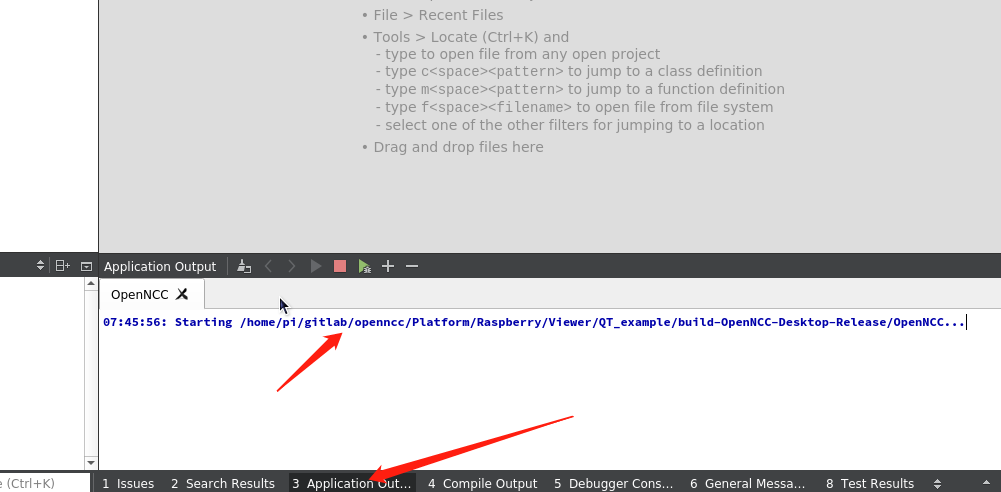
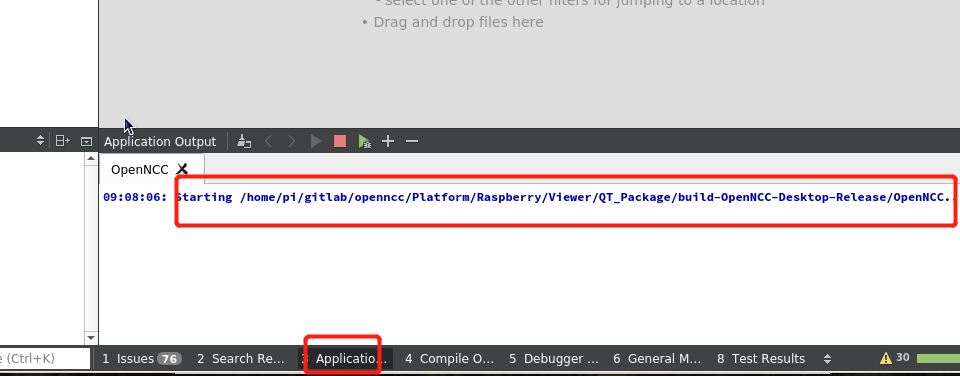
modify pi README

diff --git a/Platform/Raspberry/ReadMe.md b/Platform/Raspberry/ReadMe.md
@@ -293,13 +293,13 @@ sudo qtcreator
 File->Open File or Project
 ```
 
-* find your pro in Raspberry Pi and Open it (like /home/pi/gitlab/openncc/Platform/Raspberry/Viewer/QT_example/OpenNCC/OpenNCC.pro)
+* find your pro in Raspberry Pi and Open it (like /home/pi/gitlab/openncc/Platform/Raspberry/Viewer/QT_Package/OpenNCC/OpenNCC.pro)
 
-![image-20210625144248899](./image/selectpro.png)
+![image-20210701160558519](D:\gitlab\openncc\Platform\Raspberry\image\selectpro.png)
 
 * Select Ok
 
-![image-20210625144302046](./image/selectok.png)
+![image-20210701160632613](D:\gitlab\openncc\Platform\Raspberry\image\selectok.png)
 
 * Select Configure Project
 
@@ -329,10 +329,10 @@ then build it.
 
 Slove:
 
-![image-20210625144632907](./image/Slove.png)
+![image-20210701160906341](D:\gitlab\openncc\Platform\Raspberry\image\Slove.png)
 
 ```shell
-cd /home/pi/gitlab/openncc/Platform/Raspberry/Viewer/QT_example/build-OpenNCC-Desktop-Release/
+cd /home/pi/gitlab/openncc/Platform/Raspberry/Viewer/QT_Package/build-OpenNCC-Desktop-Release/
 sudo cp -r ../../OpenNCC_Raspberry/Configuration .
 ```
 
@@ -361,7 +361,7 @@ copy key file to `bin/fw` like this.
 sudo cp ~/eyecloud.key Configuration/fw/
 ```
 
-![image-20210625145356957](./image/copyKey.png)
+![image-20210701161239156](D:\gitlab\openncc\Platform\Raspberry\image\copyKey.png)
 
 You can run it again now.
 
@@ -383,14 +383,14 @@ You can run it again now.
 cd ~/Desktop/
 mkdir openncc_view
 cd openncc_view
-cp ~/gitlab/openncc/Platform/Raspberry/Viewer/QT_example/build-OpenNCC-Desktop-Release/OpenNCC .
-cp -r ~/gitlab/openncc/Platform/Raspberry/Viewer/QT_example/build-OpenNCC-Desktop-Release/Configuration/ .
+cp ~/gitlab/openncc/Platform/Raspberry/Viewer/QT_Package/build-OpenNCC-Desktop-Release/OpenNCC .
+cp -r ~/gitlab/openncc/Platform/Raspberry/Viewer/QT_Package/build-OpenNCC-Desktop-Release/Configuration/ .
 ```
 
-2. Put `linuxdeployqt` in `/usr/local/bin` (`linuxdeployqt` in `QT_example`)
+2. Put `linuxdeployqt-pi` in `/usr/local/bin` (`linuxdeployqt-pi` in `QT_Package`)
 
 ```shell
-sudo cp linuxdeployqt /usr/local/bin
+sudo cp linuxdeployqt-pi /usr/local/bin/linuxdeployqt
 ```
 
 	3. Package QT 
